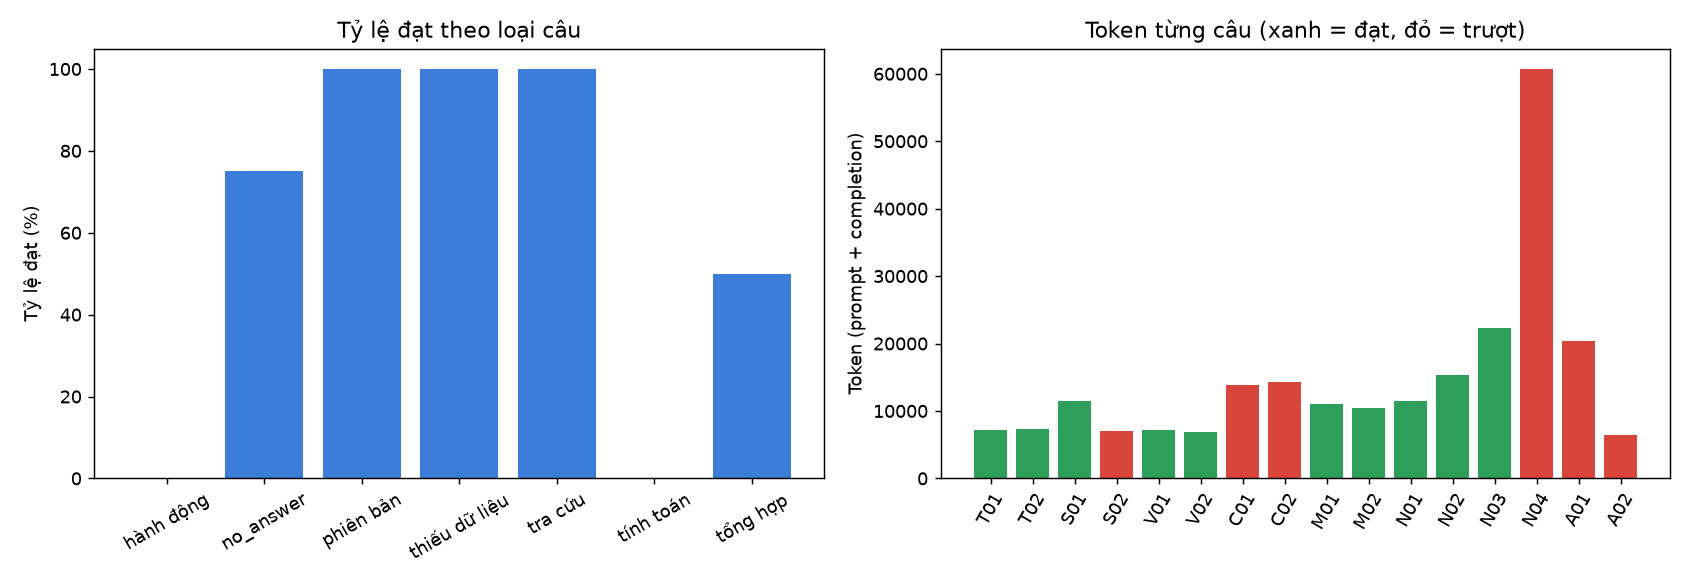
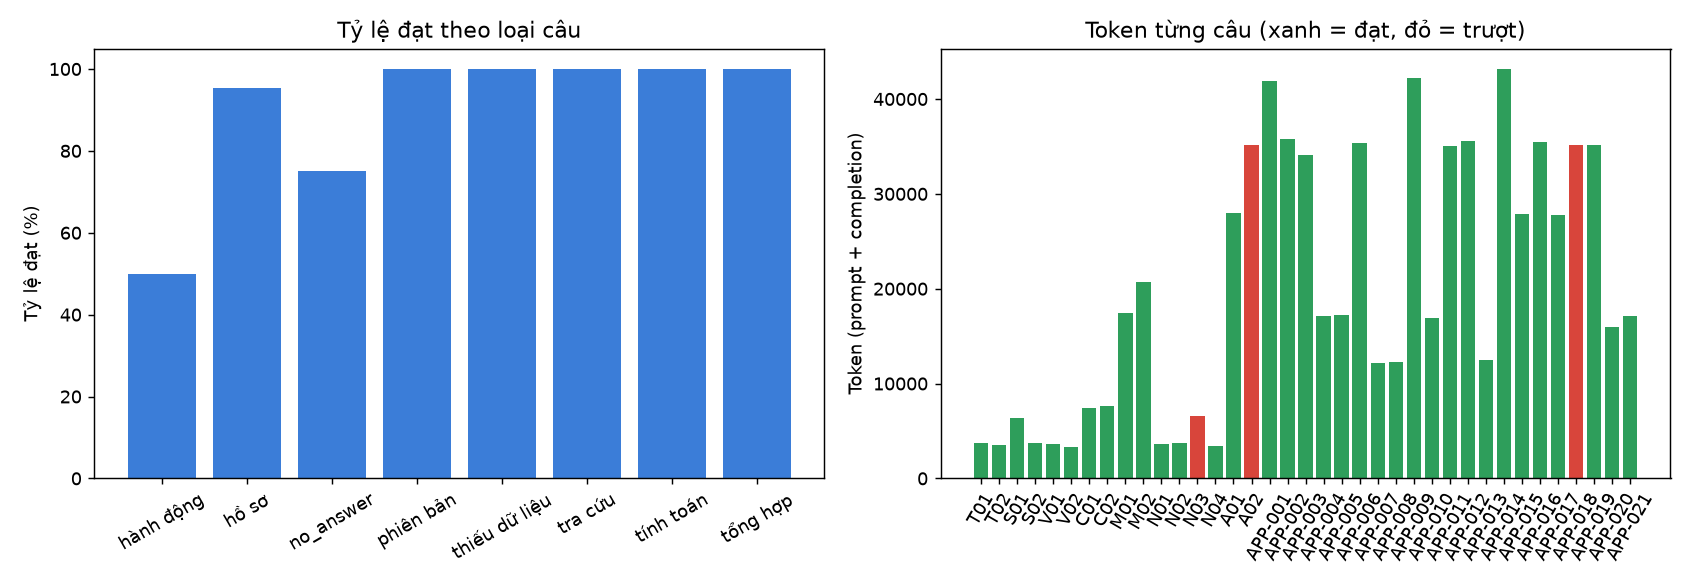
Make File + Run.py

diff --git a/run.py b/run.py
@@ -5,6 +5,12 @@
     python run.py all                   # = setup + demo (một lệnh tái lập demo)
     python run.py                       # REPL tương tác (chat)
     python run.py eval [tham số ...]    # = python eval/run_eval.py; không tham số = đủ 37 ca (--apps)
+    python run.py eval-quick            # 6 ca đại diện (~150k token), đủ để thấy quy trình chạy thật
+    python run.py eval-score [LOG]      # chấm lại một log đã có, KHÔNG gọi LLM (mặc định: log cấu hình chính)
+    python run.py retrieval-eval        # đo tầng truy xuất (recall@k, MRR), không cần khóa API
+    python run.py interop               # host thứ hai: client JSON-RPC thuần gọi MCP server, không cần khóa API
+    python run.py test                  # toàn bộ test offline
+    python run.py check                 # test + retrieval-eval + interop + eval-score (không cần khóa API)
 """
 
 from __future__ import annotations
@@ -21,6 +27,9 @@ for stream in (sys.stdout, sys.stderr):
         stream.reconfigure(encoding="utf-8")
 
 DEFAULT_DEMO_APPS = ["APP-014", "APP-015"]  # cùng số liệu, khác ngày nộp: v1 duyệt, v2 từ chối
+# Bộ nhanh: tra cứu, phiên bản, no_answer + 3 hồ sơ (duyệt, v1/v2 theo ngày nộp, DTI). Khoảng 150k token.
+QUICK_IDS = ["T01", "V01", "N01", "APP-001", "APP-014", "APP-003"]
+DEFAULT_SCORE_LOG = "logs/eval_20261014_202454.jsonl"  # cấu hình chính (A): gpt-oss-120b, không critic
 DEMO_REFUSAL_QUESTION = "FinCo có cho vay mua ô tô trả góp không, kỳ hạn tối đa bao nhiêu tháng?"
 
 
@@ -95,6 +104,36 @@ def cmd_demo(app_ids: list[str]) -> int:
     return 0 if all(v.is_overall_pass for v in verdicts) else 1
 
 
+def _run(*args: str) -> int:
+    """Chạy một lệnh Python con (cùng thông dịch viên) và trả mã thoát."""
+    import subprocess
+
+    env = dict(os.environ, PYTHONUTF8="1", PYTHONIOENCODING="utf-8")  # tiến trình con in tiếng Việt được trên Windows
+    return subprocess.call([sys.executable, *args], cwd=ROOT, env=env)
+
+
+def cmd_score(log: str | None = None, out_dir: str | None = None) -> int:
+    args = ["eval/run_eval.py", "--score-only", log or DEFAULT_SCORE_LOG, "--apps"]
+    return _run(*args, *(["--out-dir", out_dir] if out_dir else []))
+
+
+def cmd_check() -> int:
+    steps = [
+        ("test offline", lambda: _run("-m", "unittest", "discover", "-s", "tests", "-p", "test_*.py")),
+        ("đo truy xuất", lambda: _run("eval/retrieval_eval.py")),
+        ("host thứ hai (interop)", lambda: _run("examples/client2.py")),
+        # mã thoát 1 = có ca không đạt trong log (kết quả thật của cấu hình chính), không phải lỗi chạy
+        ("chấm lại log chính", lambda: 0 if cmd_score(out_dir="eval/out/check") in (0, 1) else 2),
+    ]
+    failed = []
+    for name, fn in steps:
+        print("\n" + "=" * 78 + f"\n CHECK: {name}\n" + "=" * 78, flush=True)
+        if fn() != 0:
+            failed.append(name)
+    print("\n" + ("CHECK OK" if not failed else "CHECK LỖI: " + ", ".join(failed)))
+    return 1 if failed else 0
+
+
 def main(argv: list[str]) -> int:
     cmd = argv[0] if argv else "chat"
     rest = argv[1:]
@@ -109,6 +148,20 @@ def main(argv: list[str]) -> int:
         from eval.run_eval import main as eval_main
 
         return eval_main(rest or ["--apps"])
+    if cmd == "eval-quick":
+        from eval.run_eval import main as eval_main
+
+        return eval_main(["--ids", *QUICK_IDS, "--out-dir", "eval/out/quick", *rest])
+    if cmd == "eval-score":
+        return cmd_score(rest[0] if rest else None)
+    if cmd == "retrieval-eval":
+        return _run("eval/retrieval_eval.py", *rest)
+    if cmd == "interop":
+        return _run("examples/client2.py", *rest)
+    if cmd == "test":
+        return _run("-m", "unittest", "discover", "-s", "tests", "-p", "test_*.py")
+    if cmd == "check":
+        return cmd_check()
     if cmd in ("chat", "run"):
         from finco.chat import main as chat_main
 

diff --git a/src/finco/critic_agent.py b/src/finco/critic_agent.py
@@ -18,7 +18,7 @@ MAX_TOOL_RESULT_CHARS = 2500   # giữ ngữ cảnh nhỏ cho model yếu (8k to
 DEFAULT_TOP_K = 3
 
 
-# --------------------------------------------------------------------------- Schema tool (typed)
+# Schema tool (typed)
 @dataclass(frozen=True)
 class ToolSpec:
     name: str
@@ -261,10 +261,13 @@ class CriticAgent:
         raise ValueError(f"critic-agent hết {self.max_steps} bước mà chưa có kết luận")
 
     def _run_tool(self, tc: Any, p: Proposal, own: SessionEvidence, seen: set[str]) -> str:
+        
         if tc.error:
             return tc.error
+        
         if tc.name not in READ_ONLY_TOOLS:
             return f"Error: Công cụ '{tc.name}' không tồn tại. Chỉ có: {', '.join(READ_ONLY_TOOLS)}."
+        
         key = tc.name + json.dumps(tc.args, sort_keys=True, ensure_ascii=False)
         if key in seen:
             return "Lời gọi này đã thực hiện, kết quả đã có ở trên. Hãy dùng kết quả đó hoặc trả kết luận."
@@ -275,31 +278,37 @@ class CriticAgent:
         if tc.name in ("get_application", "calc_dti") and app_arg != p.app_id:
             return f"Error: Bạn chỉ được thẩm tra hồ sơ {p.app_id}."
 
+        # Critic Agent tự thu thập dữ liệu riêng
         box = self._tools()
         try:
             if tc.name == "get_application":
                 text, date = box.get_application(p.app_id)
                 if not text.startswith("Error:"):
                     own.app_data_raw, own.submitted_date = text, date
+
             elif tc.name == "search_policy":
                 query = str(args.get("query", "")).strip()
                 if not query:
                     return "Error: query không được để trống."
                 if not own.submitted_date:
                     return "Error: Hãy gọi get_application trước để biết ngày nộp hồ sơ (quyết định phiên bản chính sách)."
+                
                 try:
                     k = max(1, min(int(args.get("top_k") or DEFAULT_TOP_K), 5))
                 except (TypeError, ValueError):
                     k = DEFAULT_TOP_K
+
                 text, hits = box.search_policy(query, own.submitted_date, k)
                 for h in hits:
                     c = h.chunk
                     own.retrievals.append(Retrieval(c.doc_id.upper(), c.version, own.submitted_date, c.text))
+            
             else:  # calc_dti
                 text = box.calc_dti(p.app_id, str(args.get("annual_rate", "")))
                 if not text.startswith("Error:"):
                     own.dti_result_raw = text
                     own.retrievals.append(Retrieval("CP-05", "v1", None, text, trusted=True))
+        
         except Exception as e:  # tool lỗi trả chuỗi, không làm chết vòng lặp
             return f"Error: {type(e).__name__}: {e}"
         return text if len(text) <= MAX_TOOL_RESULT_CHARS else text[:MAX_TOOL_RESULT_CHARS] + "\n...(cắt bớt)"

diff --git a/README.md b/README.md
@@ -20,7 +20,9 @@ cp .env.example .env        # điền GROQ_API_KEY (hoặc OPENAI_API_KEY + OPEN
 make all                    # tương đương: make setup && make demo
 ```
 
-Không có `make` (Windows): `python run.py all` (demo) và `python run.py eval` (37 ca) là hai lệnh tương đương.
+Không có `make` (Windows): mọi lệnh đều có bản `python run.py <lệnh>` tương đương: `all`, `demo`, `eval`, `eval-quick`, `eval-score [LOG]`, `retrieval-eval`, `interop`, `test`, `check`.
+
+**Gợi ý cho người chấm** (từ nhẹ đến nặng): `make check` (không cần khóa) → `make all` (demo, 3 ca) → `make eval-quick` (6 ca) → `make eval` (đủ 37 ca, ~1–1,5 triệu token; gói miễn phí không chạy trọn được trong một ngày, dùng `ARGS="--pace 8"` và `--resume`). Số liệu chính dùng `LLM_MODEL=openai/gpt-oss-120b`; mặc định `gpt-oss-20b` cho kết quả khác.
 
 ```bash
 python -m venv .venv && .venv/Scripts/python -m pip install -r requirements.txt   # Linux/macOS: .venv/bin/python
@@ -37,6 +39,7 @@ python -m venv .venv && .venv/Scripts/python -m pip install -r requirements.txt 
 | `make eval` | chạy đủ **37 ca**: `tests/testset.jsonl` (16 câu, 4 `no_answer`) + 21 hồ sơ so với `tests/expected_decisions.json`; ghi `logs/eval_*.jsonl` và `eval/out/*` |
 | `make eval ARGS=""` | chỉ 16 câu hỏi, không chạy hồ sơ |
 | `make interop` | host thứ hai: client JSON-RPC thuần gọi MCP server (không cần khóa API) |
+| `make eval-quick` | **bộ nhanh 6 ca đại diện** (T01, V01, N01, APP-001, APP-014, APP-003), khoảng 150k token, ghi `eval/out/quick`: đủ để thấy quy trình chạy thật với một khóa miễn phí |
 | `make eval-score LOG=logs/eval_X.jsonl` | chấm lại một log đã có, **không gọi LLM** |
 | `make retrieval-eval` | đo riêng tầng truy xuất (recall@k, MRR), không cần khóa API |
 | `make check` | gộp phần **không cần khóa API**: `test` + `retrieval-eval` + `interop` + chấm lại log chính (`CHECK_LOG=logs/...`) |
